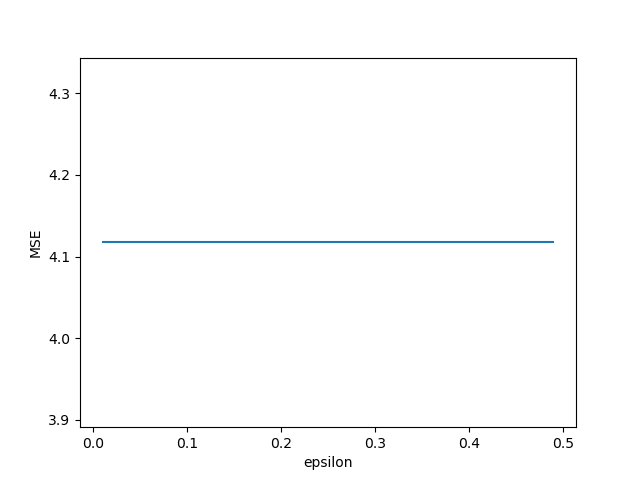
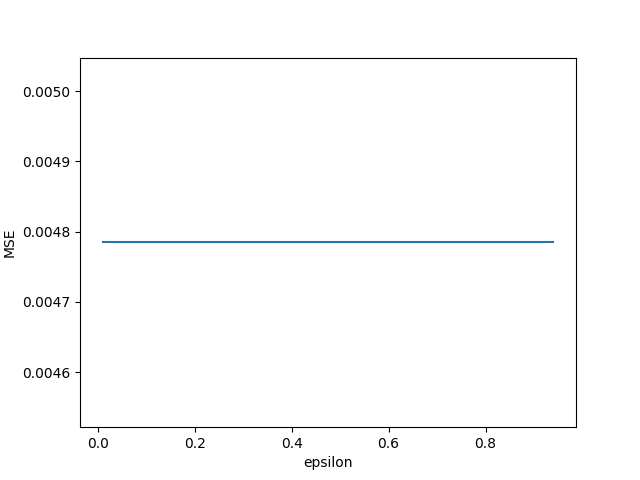
So close

diff --git a/Project 2/NNV.py b/Project 2/NNV.py
@@ -64,6 +64,8 @@ class NearestNeighbor:
     # Eknn
     # ----
     # edited nearest neighbor, removes incorrectly classified points from training data
+    # todo: if performance degrades after removing a point, readd it see if works better
+    # todo: doesn't get to check if all points are noise
     def EKNN(self, tune=False):
         if tune:
             test = self.tune
@@ -74,57 +76,72 @@ class NearestNeighbor:
         train = pd.DataFrame(self.train)  # initializes local training set to edit
         edited = pd.DataFrame(train) # initializes local edited training set to test performance for reduced data set
         len = self.train.shape[0]  # Creates variable to check if we have gone over every element in the training data
-        if self.classification: currentperf = 0  # determines what value performance starts at
-        if not self.classification: currentperf = np.infty  # lower is better for regression performance value MSE
+        if self.classification: bestPerf = 0  # determines what value performance starts at
+        if not self.classification: bestPerf = np.infty  # lower is better for regression performance value MSE
         count = 0  # initializes how many times we have edited
-        performance = []  # initializes list of performance values
         increment = (len // 10)  # how often to test performance
         prevSet = pd.DataFrame(train)  # initializes variable to store previous edited set
-        currentperf = self.performance(test,train)  # sets initial performance
-        correctPerf = 0
+        bestPerf = self.performance(test,train)  # sets initial performance
         # for regression data sets
         if not self.classification:
-            for x in tqdm(train.to_dict('index').keys()):  # iterating through each element in training data
-                if count == len: # if all training data has be gone through
-                    return currentperf
+            for x in (train.to_dict('index').keys()):  # iterating through each element in training data
+
                 count += 1  # adds to amount of elements gone through in training data
 
                 edited = self.edit(x, prevSet)
-                prevSize = prevSet.shape[0]
-                currentSize = edited.shape[0]
-                if count % increment == 0 :  # tests if a point has been edited out
-                    # tests if error increased
-                    correctPerf = self.performance(test, edited)
-                    if correctPerf > currentperf:
-                        self.clusters = prevSet.shape[0]
-                        # returns best performance
-                        return currentperf
+
+                if edited.shape[0] < prevSet.shape[0]:
+                    currentPerf = self.performance(test, edited)
+                    if currentPerf > bestPerf:
+                        edited = pd.concat([pd.DataFrame(train.loc[x, :]).transpose(), edited])
                     else:
+                        bestPerf = currentPerf
+                    prevSet = pd.DataFrame(edited)
+                #prevSize = prevSet.shape[0]
+                #currentSize = edited.shape[0]
+                #if count % increment == 0 :  # tests if a point has been edited out
+                    # tests if error increased
+                    #correctPerf = self.performance(test, edited)
+                    #if correctPerf > prevPerf:
+                        #self.clusters = prevSet.shape[0]
+                        # returns best performance
+                        #return prevPerf
+                    #else:
                     # updates performance if it improved and saves the edited training data
-                        currentperf = correctPerf
-                prevSet = pd.DataFrame(edited)
+                    # prevPerf = correctPerf
+                # prevSet = pd.DataFrame(edited)
 
 
         # for classification
         else:
 
-            for x in tqdm(train.to_dict('index').keys()):
+            for x in (train.to_dict('index').keys()):
                 count += 1
                 edited = self.edit(x, edited)  # returns data set with or without x depending if correct
-                if edited.shape[0] < prevSet.shape[0]:  # tests a point has been edited out
-                    correct = self.performance(test, edited)
-                    # tests if error increased
-                    if correct < currentperf:
-                        self.clusters = prevSet.shape[0]
-                        # returns best performance
-                        return currentperf
+
+                if edited.shape[0] < prevSet.shape[0]:
+                    currentPerf = self.performance(test, edited)
+                    if currentPerf < bestPerf:
+                        edited = pd.concat([pd.DataFrame(train.loc[x, :]).transpose(), edited])
                     else:
+                        bestPerf = currentPerf
+                    prevSet = pd.DataFrame(edited)
+
+                    
+                #if edited.shape[0] < prevSet.shape[0]:  # tests a point has been edited out
+                #    correct = self.performance(test, edited)
+                    # tests if error increased
+                #    if correct < prevPerf:
+                #        self.clusters = prevSet.shape[0]
+                        # returns best performance
+                #        return prevPerf
+                    #else:
                         # updates performance if it improved and saves the edited training data
-                        currentperf = correct
-                        prevSet = edited
-                        performance.append(correct)
+                        #prevPerf = correct
+                        #prevSet = edited
+                        #performance.append(correct)
         self.clusters = prevSet.shape[0]
-        return currentperf
+        return bestPerf
 
     # edit
     # ----
@@ -204,8 +221,9 @@ class NearestNeighbor:
             test = self.means
         else:  # uses 10th sample for test if being run normally
             test = self.samples[9]
-
-        train = self.train  # initializes local training data
+        self.train = pd.concat(self.samples[0:9])
+        self.train.drop('Dist', axis=1, inplace=True, errors='ignore')
+        train = pd.DataFrame(self.train)  # initializes local training data
 
         # initializes arrays of vectors
 
@@ -217,6 +235,8 @@ class NearestNeighbor:
         if not self.discrete:
             # iterates through each vector
             for i in testV:
+                if means:
+                    distance = np.sum((i[:-1] - trainV[:, :-1]) ** 2, axis=1) ** (1 / 2)
                 distance = np.sum((i[:-1] - trainV[:,:-1])**2,axis=1)**(1/2)  # calculates euclidean distance to each training point
                 train['Dist'] = distance  # appends distance to data frame
                 neighbors = train.nsmallest(self.k, 'Dist').iloc[:,-2:].values  # finds kth smallest distances
@@ -248,10 +268,13 @@ class NearestNeighbor:
 
 
     def Kmeans(self):
+        np.seterr(invalid='ignore')
         # initialize random centroids and variable to check if centroids changed
         self.EKNN()  # sets number of clusters
-        train = self.train  # initializes local training set
-        OGcentroids = train.sample(n=self.clusters,replace=False)  # takes k sample for random initial mean centroids
+        self.train = pd.concat(self.samples[0:9])
+        self.train.drop('Dist', axis=1, inplace=True, errors="ignore")
+        train = pd.DataFrame(self.train)  # initializes local training set
+        OGcentroids = pd.DataFrame(train.sample(n=self.clusters,replace=False))  # takes k sample for random initial mean centroids
         changed = True  # initiliazes boolean variable to indicate it centroids changed
         C = np.array(OGcentroids.to_numpy())
         means = np.zeros_like(C)# initializes array for centroid data to change
@@ -260,21 +283,33 @@ class NearestNeighbor:
         lastCcounts = []  # counts to each centroid
 
         # continue until centroids converge
-        pbar = tqdm()
+        #pbar = tqdm()
         n = 0
         while changed:
-            means = np.zeros_like(C)
+            means = np.zeros_like(old)
             centroids = pd.DataFrame(old,columns=Col)  # creates dataframe of each cluster
-            Ccounts = [0 for i in range(self.clusters)]  # creates empty list of counts for each cluster
+            Ccounts = [0 for i in range(centroids.shape[0])]  # creates empty list of counts for each cluster
+
             if self.discrete:  # decides distance function to use
                 trainD = train.to_dict('index')  # training data to dictionary for iteration
                 t, p = dist.initialize(centroids)   # initializes VDM arrays given centroids as training data
-                for x in tqdm(trainD.values()):  # goes through all data points
+                for x in (trainD.values()):  # goes through all data points
                     distances = dist.VDM(t, x, p, means=centroids)  # gets distance from each centroid to data point
                     c = np.argmin(distances[:,-1])  # returns closest centroid to data point
                     xi = np.array((list(x.values())))  # creates array from training point for np calculations
                     means[c] = means[c,:]+xi  # adds training point to centroid values
                     Ccounts[c] += 1  # adds count for centroid for average
+
+                zeros = []
+                for i in Ccounts:
+
+                    if i == 0:
+                        zeros.append(i)
+                Acounts = np.delete(Ccounts, zeros, 0)
+                Ameans = np.delete(means, zeros, 0)
+                AC = np.delete(C, zeros, 0)
+                C = AC
+
                 m = np.rint(means / np.array(Ccounts)[:,None])  # Calculates mean of centroid rounded to the nearest int
                 if np.array_equal(m,old):  # Checks if centroids changed
                     changed = False
@@ -295,7 +330,16 @@ class NearestNeighbor:
                     centroids.drop('Dist', axis=1, inplace=True)  # removes distance column from dataframe
                     means[c] = means[c, :] + i  # adds training point to centroid
                     Ccounts[c] += 1  # adds count for centroid
-                m = means / (np.array(Ccounts))[:, None] # calculates mean centroid not rounded
+                zeros = []
+                for i in Ccounts:
+
+                    if i == 0:
+                        zeros.append(i)
+                Acounts = np.delete(Ccounts,zeros,0)
+                Ameans = np.delete(means,zeros,0)
+                AC = np.delete(C,zeros,0)
+                C = AC
+                m = Ameans / Acounts[:, None] # calculates mean centroid not rounded
                 if np.array_equal(m,old):  # Checks if centroid changed
                     centroids = pd.DataFrame(old)
                     changed = False
@@ -308,7 +352,7 @@ class NearestNeighbor:
                     old = np.array(m)
                     lastCcounts = list(Ccounts)
             n += 1
-            pbar.update(n)
+            #pbar.update(n)
 
         # classify dependent variable of each centroid using KNN with training data
         if not self.discrete:
@@ -421,7 +465,7 @@ class NearestNeighbor:
         if test:
             it = np.arange(.1,.3,.1)
         else:
-            it = np.arange(.01,1,.05)
+            it = np.arange(.01,1,.1)
         if self.name == "abalone.data":
             it = np.arange(.01, .5, .01)
         perf = {}
@@ -448,14 +492,17 @@ class NearestNeighbor:
 
     def tuneBandwidth(self,test=False):
         if self.name == 'machine.data':
-            x = 50000
-            y = 100
+            x = 500000 # 5000
+            y = 10000  # 100
+            self.bandwith = 100
         elif self.name == 'forestfires.data':
-            x = 250
-            y = x
+            x = 10000 # 100
+            y = 10000 # 10
+            self.bandwith = 10
         else:
-            x = 10
-            y = 10
+            x = 10 # 0.1
+            y = 10 # 0.01
+            self.bandwith = 0.1
         results = []
         self.k = round(self.train.shape[0]**(1/2))
         sqrk = self.KNN(tune=True)
@@ -476,7 +523,7 @@ class NearestNeighbor:
             times = 2
         else:
             it = np.arange(1,max+5,2)
-            times = 25
+            times = 10
         for k in tqdm(it):
             self.k = k
             for h in np.random.randint(y, 10*x, times)/1000:
@@ -508,7 +555,7 @@ class NearestNeighbor:
         # sets the k for the data set, carries through all functions
     def tuneK(self):
         tune = {}
-        self.train = pd.concat((self.samples))
+        self.train = pd.concat(self.samples)
         for k in range(1,round(self.train.shape[0]**(1/2)+5)):
             self.k = k
             performance = self.KNN(tune=True)

diff --git a/Project 2/Results.py b/Project 2/Results.py
@@ -7,10 +7,9 @@ import os
 import matplotlib.pylab as plt
 @nn.timeit
 def results():
-    runs = 10
-    for file in os.listdir("Data"):
-        if file.endswith('.data'):
-            test1 = nn.NearestNeighbor(file)
+    runs = 1
+    for file in tqdm(file for file in os.listdir("Data") if file.endswith('.data')):
+            test1 = nn.NearestNeighbor("forestfires.data")
             print("Tuning ", file)
             print("Using:", test1.tuneit())
 
@@ -43,7 +42,7 @@ def results():
             plt.title("K Nearest Neighbor")
             plt.xlabel("K neighbors")
             if test1.classification:
-                plt.ylabel("Prob")
+                plt.ylabel("Accuracy")
             else:
                 plt.ylabel("MSE")
             plt.savefig("results/KnnResults" + test1.name[:-4] + 'png')
@@ -68,10 +67,10 @@ def results():
             lists = sorted(EKNNResults.items())
             x, y = zip(*lists)
             plt.plot(x, y)
-            plt.title("K Nearest Neighbor")
+            plt.title("Edited K Nearest Neighbor")
             plt.xlabel("K neighbors")
             if test1.classification:
-                plt.ylabel("Prob")
+                plt.ylabel("Accuracy")
             else:
                 plt.ylabel("MSE")
             plt.savefig("results/EKnnResults" + test1.name[:-4] + 'png')
@@ -96,10 +95,10 @@ def results():
             lists = sorted(KMeansResults.items())
             x, y = zip(*lists)
             plt.plot(x, y)
-            plt.title("Edited Nearest Neighbor")
+            plt.title("K-Means")
             plt.xlabel("K neighbors")
             if test1.classification:
-                plt.ylabel("Prob")
+                plt.ylabel("Accuracy")
             else:
                 plt.ylabel("MSE")
             plt.savefig("results/KMeansResults" + test1.name[:-4] + 'png')
@@ -110,5 +109,7 @@ def results():
 
             fResults = pd.DataFrame(final)
             print(fResults.to_latex())
+
+
 
 results()
